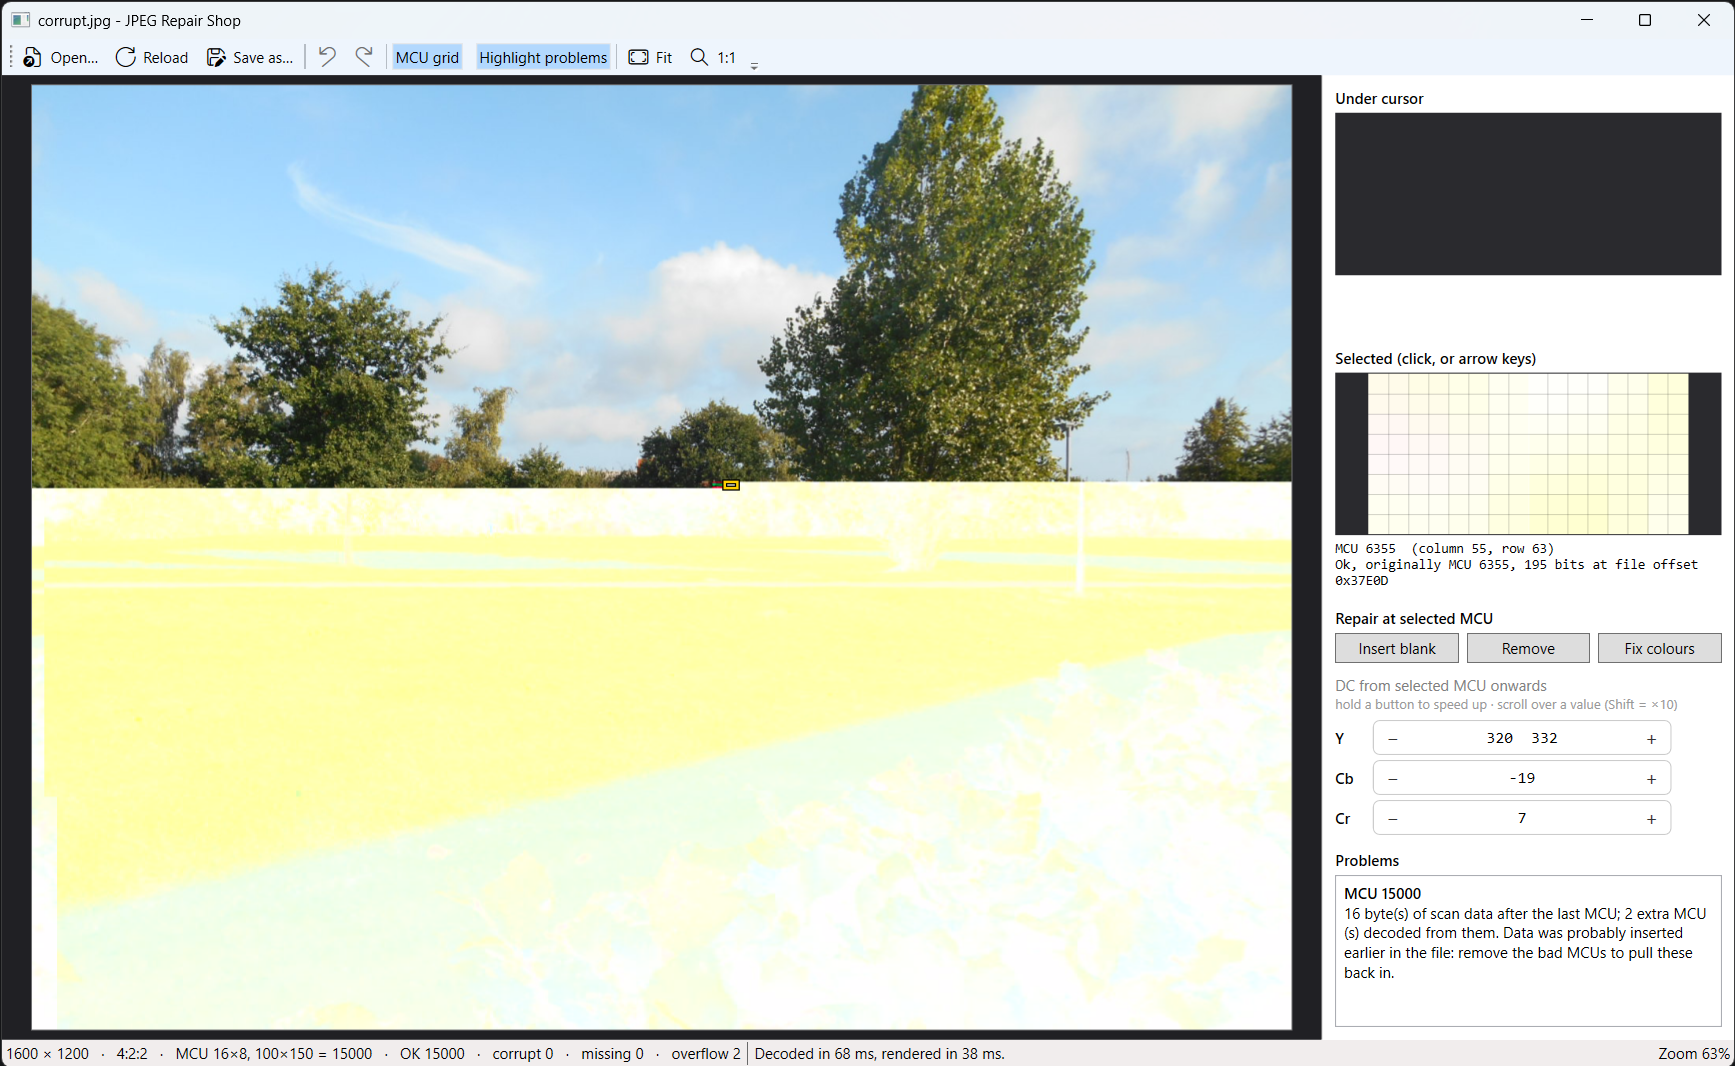
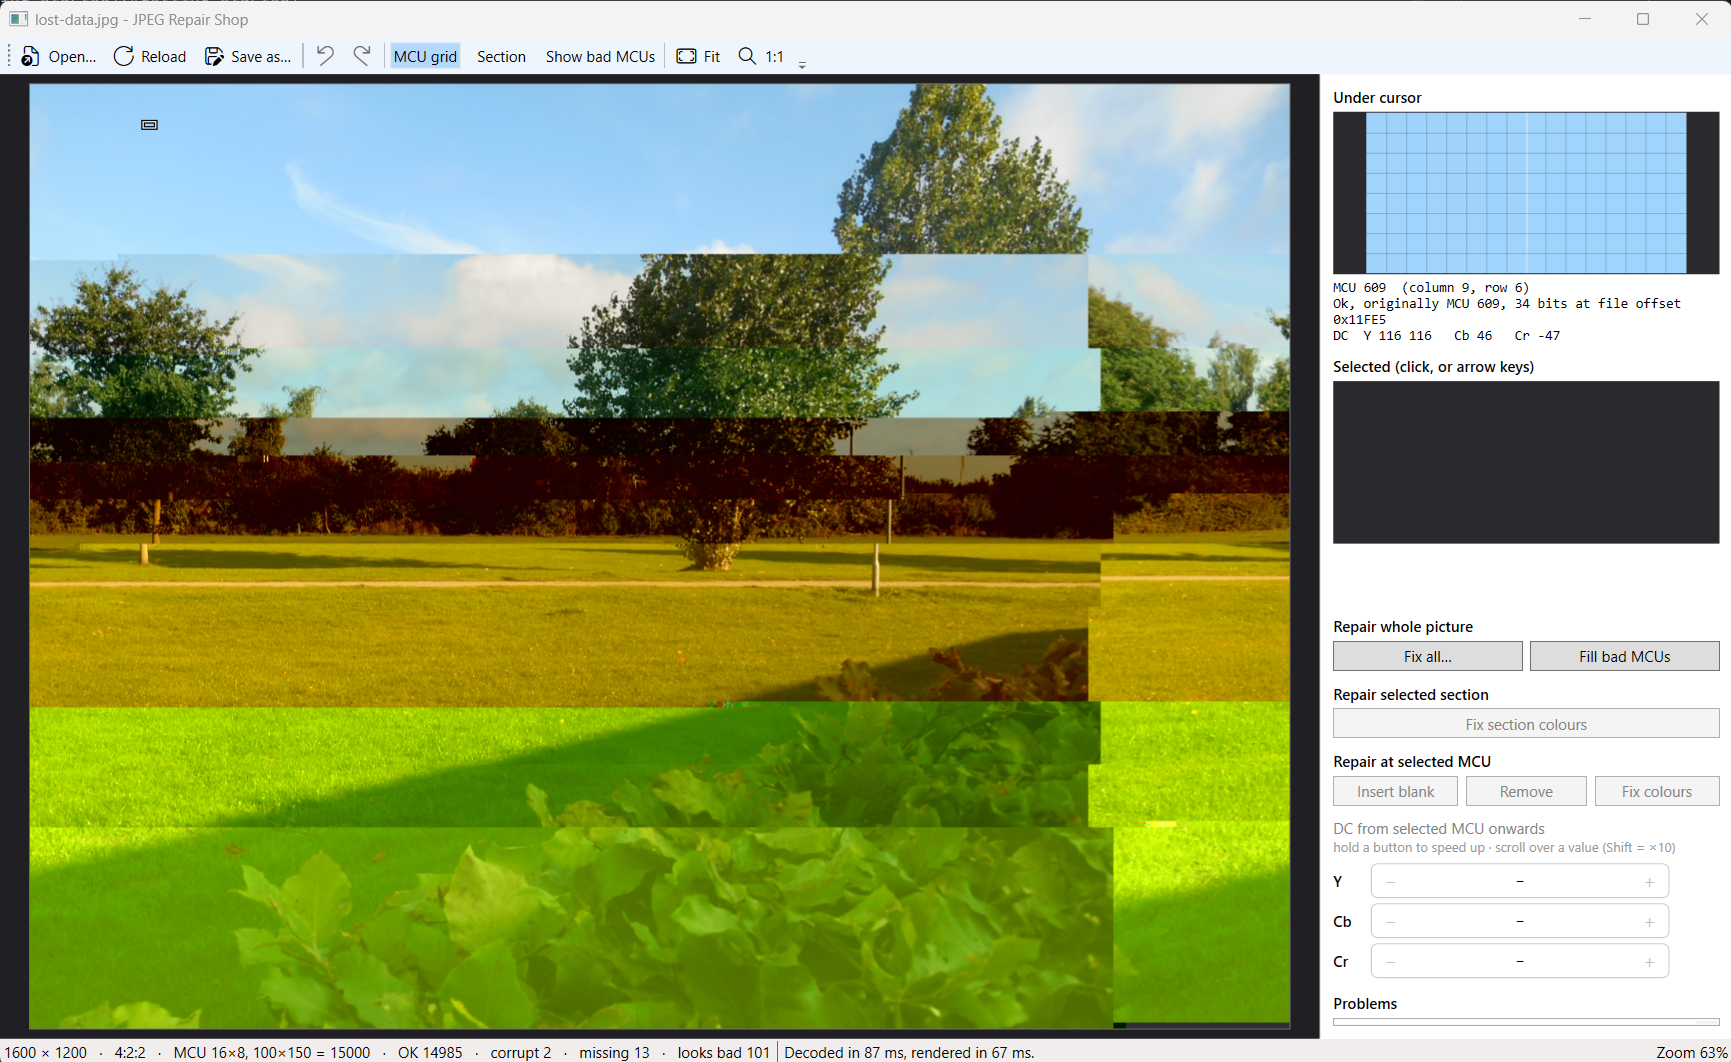
Updated documentation + added small guide (#5)

diff --git a/docs/USER_GUIDE.md b/docs/USER_GUIDE.md
@@ -1,0 +1,224 @@
+# JPEG Repair Shop user guide
+
+This guide explains why a JPEG that looks ruined can often be repaired, and how to do it with JPEG Repair Shop.
+
+- [How a JPEG is stored](#how-a-jpeg-is-stored)
+- [Why a corrupt file can often be recovered](#why-a-corrupt-file-can-often-be-recovered)
+- [Getting started](#getting-started)
+- [Fix all, step 1: lining up rows](#fix-all-step-1-lining-up-rows)
+- [Filling the holes](#filling-the-holes)
+- [Fix all, step 2: fine-tune](#fix-all-step-2-fine-tune)
+- [Colours and garbage rows: Fix section colours](#colours-and-garbage-rows-fix-section-colours)
+- [Repairing by hand](#repairing-by-hand)
+- [Bad MCUs and marks](#bad-mcus-and-marks)
+- [Damaged headers](#damaged-headers)
+- [Saving](#saving)
+- [Controls](#controls)
+- [Tips](#tips)
+
+## How a JPEG is stored
+
+A JPEG file starts with a **header** that describes the picture (size, colours, the tables needed to decode it),
+followed by the **image data**.
+
+The picture is cut into small blocks called **MCUs**, typically 8 × 8 or 16 × 16 pixels. The MCUs are stored one
+after another, left to right and row by row, with nothing in between. There is no "new row starts here" in the
+file: the decoder only knows where an MCU goes by counting.
+
+![A small piece of a photo with its MCU grid drawn on top. Each MCU is numbered in the order it is stored: left to right, then the next row.](images/mcu-order.png)
+
+To save space, the overall brightness and colour of each MCU is stored as a **change from the MCU before it**,
+not as a value of its own.
+
+## Why a corrupt file can often be recovered
+
+When a file is damaged, some bytes of the image data are lost, overwritten, or garbage ends up in the middle.
+Picture viewers then show grey from that point, or a picture where everything below is shifted sideways and has
+the wrong colours. It looks ruined, but usually it is not:
+
+- **The data after the damage is still fine.** The decoder reads a little nonsense at the damaged spot, but soon
+  gets back in step and decodes the rest of the picture correctly.
+- **It just ends up in the wrong place.** Because the decoder counts MCUs to know where they go, every MCU after
+  the damage lands a few places too early or too late.
+- **And with the wrong colour.** Because brightness and colour are stored as changes from the MCU before, one
+  error is carried on to everything after it.
+
+![Left: a piece of a picture, MCUs numbered by where they belong. Right: the same piece after 3 MCUs were lost: every later MCU has moved 3 places back, so the lamp post is broken off and moved left, and everything after the damage has a yellow tint.](images/lost-mcus.png)
+
+So repairing a picture is mostly a matter of moving the MCUs back into place and correcting the colours. The few
+MCUs that were really lost can be filled in from the picture around them.
+
+A picture that was edited, re-saved or re-uploaded after it was damaged usually cannot be repaired, and
+progressive JPEGs are not supported.
+
+## Getting started
+
+Open a file with **Open…** (Ctrl+O) or drop it on the window. Work on a copy and keep the original.
+
+![The main window before a file is opened](images/main-window.png)
+
+The picture fills most of the window. The panel on the right shows the MCU under the cursor and the selected MCU
+enlarged, the repair buttons, and a list of problems found in the file. MCUs with invalid data are shown in red.
+
+Let's see how simple a repair can be, using [lost-data.jpg](examples/lost-data.jpg). It is damaged in several
+places: at each one, everything after it is shifted sideways and gets a different colour:
+
+![lost-data.jpg as it is: from several places down the picture, everything is shifted sideways and has a different colour](examples/lost-data.jpg)
+
+For most pictures, start with **Fix all…** (Ctrl+Shift+A). It works in two steps, and the first one is often all
+you need.
+
+## Fix all, step 1: lining up rows
+
+In an intact picture each row of MCUs joins smoothly onto the row above it. Where something went wrong, it
+doesn't. Fix all compares the rows with each other, finds where the picture stops fitting, and moves the MCUs from
+there until they line up with the row above again. Then it corrects the colours to match. It keeps going, worst
+damage first, until nothing more is found.
+
+![The Fix all window while it runs](images/fix-all-window.png)
+
+You can **Pause** to look at the picture so far, or **Stop** at any time. Every fix can be undone with Ctrl+Z.
+
+After step 1, lost-data.jpg is back in one piece:
+
+![lost-data.jpg after step 1 of Fix all: the picture is in place, with a few small grey stripes](images/lost-data-fixed.png)
+
+Look closely and you'll see a few small grey stripes. Those are places where data was really lost: Fix all inserts
+grey blank MCUs there, so that everything after them lines up again. Next to them there are often a few MCUs of
+garbage from the damaged data. Tick **Show bad MCUs** to outline in orange what JPEG Repair Shop thinks needs repair:
+
+![The same picture with Show bad MCUs on: the grey stripes and the MCUs that look like garbage are outlined in orange](images/lost-data-bad-mcus.png)
+
+Telling garbage from real picture is guesswork: JPEG Repair Shop looks at how well each MCU fits in with its
+neighbours. It can miss some garbage, especially where it happens to fit in, and it can outline good MCUs in a busy
+part of the picture. Have a look yourself; see [Bad MCUs and marks](#bad-mcus-and-marks) for how to correct it.
+
+## Filling the holes
+
+The grey blanks and the garbage can't be repaired: that part of the picture is gone. What you can do is fill it in.
+**Fill bad MCUs** (Ctrl+Shift+I) replaces every MCU outlined in orange with content made up from the picture around
+it. It fills exactly what is outlined, so garbage that wasn't spotted stays, and good MCUs that were outlined by
+mistake are replaced too:
+
+![lost-data.jpg after Fill bad MCUs: the grey stripes are gone](images/lost-data-infilled.png)
+
+Because the fill is made from the picture around each hole, do it last, when everything is in place and the colours
+are right.
+
+For many pictures, step 1 of Fix all followed by Fill bad MCUs is all it takes. The rest of this guide is for damage
+those two don't handle.
+
+## Fix all, step 2: fine-tune
+
+Step 1 looks at whole rows. A small error that doesn't fill a whole row can go unnoticed: the rest of the row is
+right, so the row as a whole still looks fine. This typically leaves a short stretch with the wrong colour, or
+moved a place or two.
+
+![small-error.jpg: a short stretch of the hedge by the lamp post has the wrong colour, and the post is moved sideways inside it](images/small-error-before.png)
+
+The second step goes looking for these short stretches and moves them and/or corrects their colours.
+
+![small-error.jpg after step 2](images/small-error-after.png)
+
+Step 2 is optional: tick or untick **Continue with fine-tuning the stretches between damaged areas** in the Fix all
+window. If it is off, you are asked when step 1 is done. If you use it, do so before Fill bad MCUs.
+
+> **Be careful with step 2.** A short stretch gives very little to go on, so now and then it "corrects" something
+> that was not wrong, especially where the picture itself changes, like along a shadow or a horizon. Look over the
+> picture afterwards and undo (Ctrl+Z) what you don't like. On badly damaged pictures this step can also take a
+> long time.
+
+## Colours and garbage rows: Fix section colours
+
+Fix all and Fix colours match the colours to **the row just above**. If that row is garbage, the colours are
+matched to the garbage, and the result can be way off.
+
+![garbage-band.jpg: a band of garbage, with wrong colours below it](images/garbage-band.png)
+
+**Fix section colours** (Shift+F) is for this case. It compares the overall colours of a section with several rows
+further up, skipping the garbage, and adjusts the section, and everything after it, to match.
+
+1. Select an MCU in the part with the wrong colours and choose **Fix section colours** (Shift+F).
+2. Choose how many **rows to look upwards** and click **Fix**.
+
+![The Fix section colours window](images/section-colours-window.png)
+
+It works best when the area above looks like the section (the same lawn, the same sky). Because it also changes
+everything after the section, work from the top of the picture down.
+
+### What a section is
+
+A **section** is a run of good MCUs around the selected MCU. It ends where it meets a bad MCU (red, orange, blank
+or missing), in both directions. Tick **Section** in the toolbar to see it outlined in cyan.
+
+If the section reaches further up than the part with wrong colours, mark the first MCU with wrong colours as bad
+(B). The section then starts right after it.
+
+## Repairing by hand
+
+Select an MCU by clicking it (or with the arrow keys), then:
+
+- **Insert blank** (Insert) adds a grey MCU here; everything after moves one place right. Use where data was lost.
+- **Remove** (Delete) removes this MCU; everything after moves one place left. Use on garbage.
+- **Fix colours** (F) matches the colours from here on to the row above.
+- **Y, Cb, Cr**: adjust brightness and colour from here on by hand.
+
+A typical manual repair: find the first MCU where the picture goes wrong, insert or remove MCUs there until the
+rest lines up, then fix the colours from the same MCU.
+
+## Bad MCUs and marks
+
+Tick **Show bad MCUs** to see what needs repair:
+
+| Colour | Meaning |
+|---|---|
+| Red | Invalid data |
+| Faint red with a cross | No data: the file ran out |
+| Orange | Looks like garbage (or marked bad by you) |
+| Blue | Blank MCU you inserted |
+| Green | Filled in from the picture around it |
+
+Orange MCUs are only a guess, based on how well each MCU fits in with its neighbours. It catches most garbage, but
+not all of it, and now and then it flags a good MCU in a busy part of the picture. Since several tools rely on it
+(Fill bad MCUs, Fix section colours and the colour fixes), it is worth correcting. Press **B** (or use **Mark** in
+the panel) to mark the selected MCU as bad or not bad. A red MCU whose picture still looks fine can also be marked not bad, so it is used
+like a good one.
+
+## Damaged headers
+
+If the header is damaged, the picture cannot be shown at all. Click **Borrow header from other picture(s)…** and
+choose an intact picture, ideally from the same camera with the same settings.
+
+## Saving
+
+**Save as…** (Ctrl+S) saves the repaired picture as a new file, keeping EXIF and other information.
+**Reload** (F5) throws away all repairs.
+
+## Controls
+
+| Action | How |
+|---|---|
+| Open a file | Ctrl+O, or drop a file on the window |
+| Save as a new file | Ctrl+S |
+| Reload, discarding repairs | F5 |
+| Undo / redo | Ctrl+Z / Ctrl+Y |
+| Zoom | Mouse wheel, or + and − |
+| Fit to window / actual size | Ctrl+0 / Ctrl+1 |
+| Pan | Drag the picture |
+| Select an MCU | Click it, or use the arrow keys; Esc clears it |
+| Fix all | Ctrl+Shift+A |
+| Fill bad MCUs | Ctrl+Shift+I |
+| Fix section colours | Shift+F |
+| Fix colours | F |
+| Insert blank MCU | Insert |
+| Remove MCU | Delete |
+| Mark MCU bad / good | B |
+| Adjust Y, Cb, Cr | − and + (hold to speed up), or mouse wheel over the value (Shift: 10 at a time) |
+
+## Tips
+
+- **Keep the original file.** Some repairs can only be done from the original damaged data.
+- **Use the file straight from the camera or memory card.** A copy that was re-saved or re-uploaded after the
+  damage usually can't be repaired.
+- **Start with Fix all, then look it over.** Undo what went wrong, fix the rest by hand, and fill the holes last.
+- **Work from the top down.** Every change also affects everything after it.

diff --git a/README.md b/README.md
@@ -12,47 +12,10 @@ enhancements.
 ## What it does
 
 A JPEG picture is stored as a long stream of small blocks called MCUs (minimum coded units). When part of a file is
-lost or overwritten, every block after the damage can end up in the wrong place, or with the wrong colours. JPEG
-Repair Shop shows you the blocks and lets you put them back:
+lost or overwritten, every block after the damage can end up in the wrong place, or with the wrong colours, even
+though the blocks themselves are intact. JPEG Repair Shop shows you the blocks and puts them back:
 
-- **Insert blank MCU**: shifts everything after the selected block one step right (use where data was lost).
-- **Remove MCU**: shifts everything after it one step left (use on garbage blocks).
-- **Fix colours**: corrects the colour/brightness shift from the selected block onwards by matching it to the row above.
-- **Fix section colours**: for when the edges don't line up (garbage or misaligned rows above). Matches the colour
-  histogram of the selected section (the run of good blocks around the selected one) to the good blocks just before
-  it, and corrects the colours from the section's first block onwards. It asks how many rows above the section to
-  compare with (2 at first; the last choice is remembered).
-- **Fix all**: finds and fixes misaligned blocks and colour shifts in the whole picture, worst first. As a last step
-  it checks the short stretches between damaged blocks, which a small burst of garbage often leaves with wrong colours
-  or a block or two out of place: each is moved back and/or has its colours corrected, as its own undo step. This last
-  step is optional ("fine-tune"): tick or untick "Continue with fine-tuning the stretches between damaged areas" in the Fix all
-  window, also while it runs; if it is off, the window asks when the first part is done ("Fine-tune" or "Close"). It
-  can take a long time on badly damaged pictures and may now and then make a spot worse.
-- **Fill bad MCUs**: replaces bad, corrupt and blank blocks with contents made up from the picture
-  around them. Filled blocks are marked in green. Best done last, after the blocks are back in place and the colours are right.
-- **Adjust DC by hand**: fine-tune brightness (Y) and colour (Cb, Cr) from the selected block onwards. The buttons
-  speed up when held down; Shift + mouse wheel moves 10 steps at a time.
-- **Undo / redo** for every edit.
-- **Borrow a header** from another picture, when the file's header (picture size, colour layout, compression
-  tables) is damaged but the image data is still there. Works best with a picture from the same camera,
-  taken with the same settings.
-- **Save as** a new file. Everything before the image data (EXIF, colour profile, comments) is kept as it was.
-
-### Viewing damaged files
-
-- The decoder keeps going through damaged data instead of stopping at the first error, so as much of the picture
-  as possible is shown. Blocks with invalid data are marked in red, blocks with no data at all with a red cross,
-  and the problems found are listed with their position in the file.
-- **Bad-MCU detection** marks blocks in orange that don't fit the picture around them: if the edges to 2 or more of
-  the 4 neighbouring blocks are rugged, and at least one of them is the edge above or below, the block is probably
-  garbage from damaged data or was inserted from elsewhere. Colour shifts and misalignment break only one edge per
-  block, so they aren't marked (except where they start). **Fix colours** and **Fix all** leave marked blocks out
-  when they work out a colour shift.
-  You can override the detection for any block: mark it as bad, or as not bad (B flips it); marks stay until you
-  change them. With **Show bad MCUs** on, every group of blocks that needs repair (bad, corrupt, inserted or missing)
-  is outlined in orange.
-- Zoom and pan freely, with an optional MCU grid. Enlarged previews show the block under the cursor and the
-  selected block, together with their DC values.
+See the **[user guide](docs/USER_GUIDE.md)** for how JPEG damage works and how to repair a picture step by step.
 
 ### Supported files
 
@@ -89,13 +52,6 @@ stretches). It is on in every build by default; for a release, turn it off with 
 | `JpegRepair.Core` | JPEG parsing, decoding, rendering, re-encoding, the edit model with undo, header borrowing. No UI dependencies. |
 | `JpegRepair.Core.Tests` | xUnit tests, including damaged-file scenarios. |
 | `JpegRepairShop` | The WPF application. |
-
-## Tips
-
-- Always keep the original file. Saving writes a clean, re-encoded file, and repairs that need the original
-  damaged data can't be redone from the saved copy.
-- Repair the original file from the camera or memory card. A picture that was re-compressed or re-uploaded
-  after it was damaged usually can't be repaired.
 
 ## License
 
